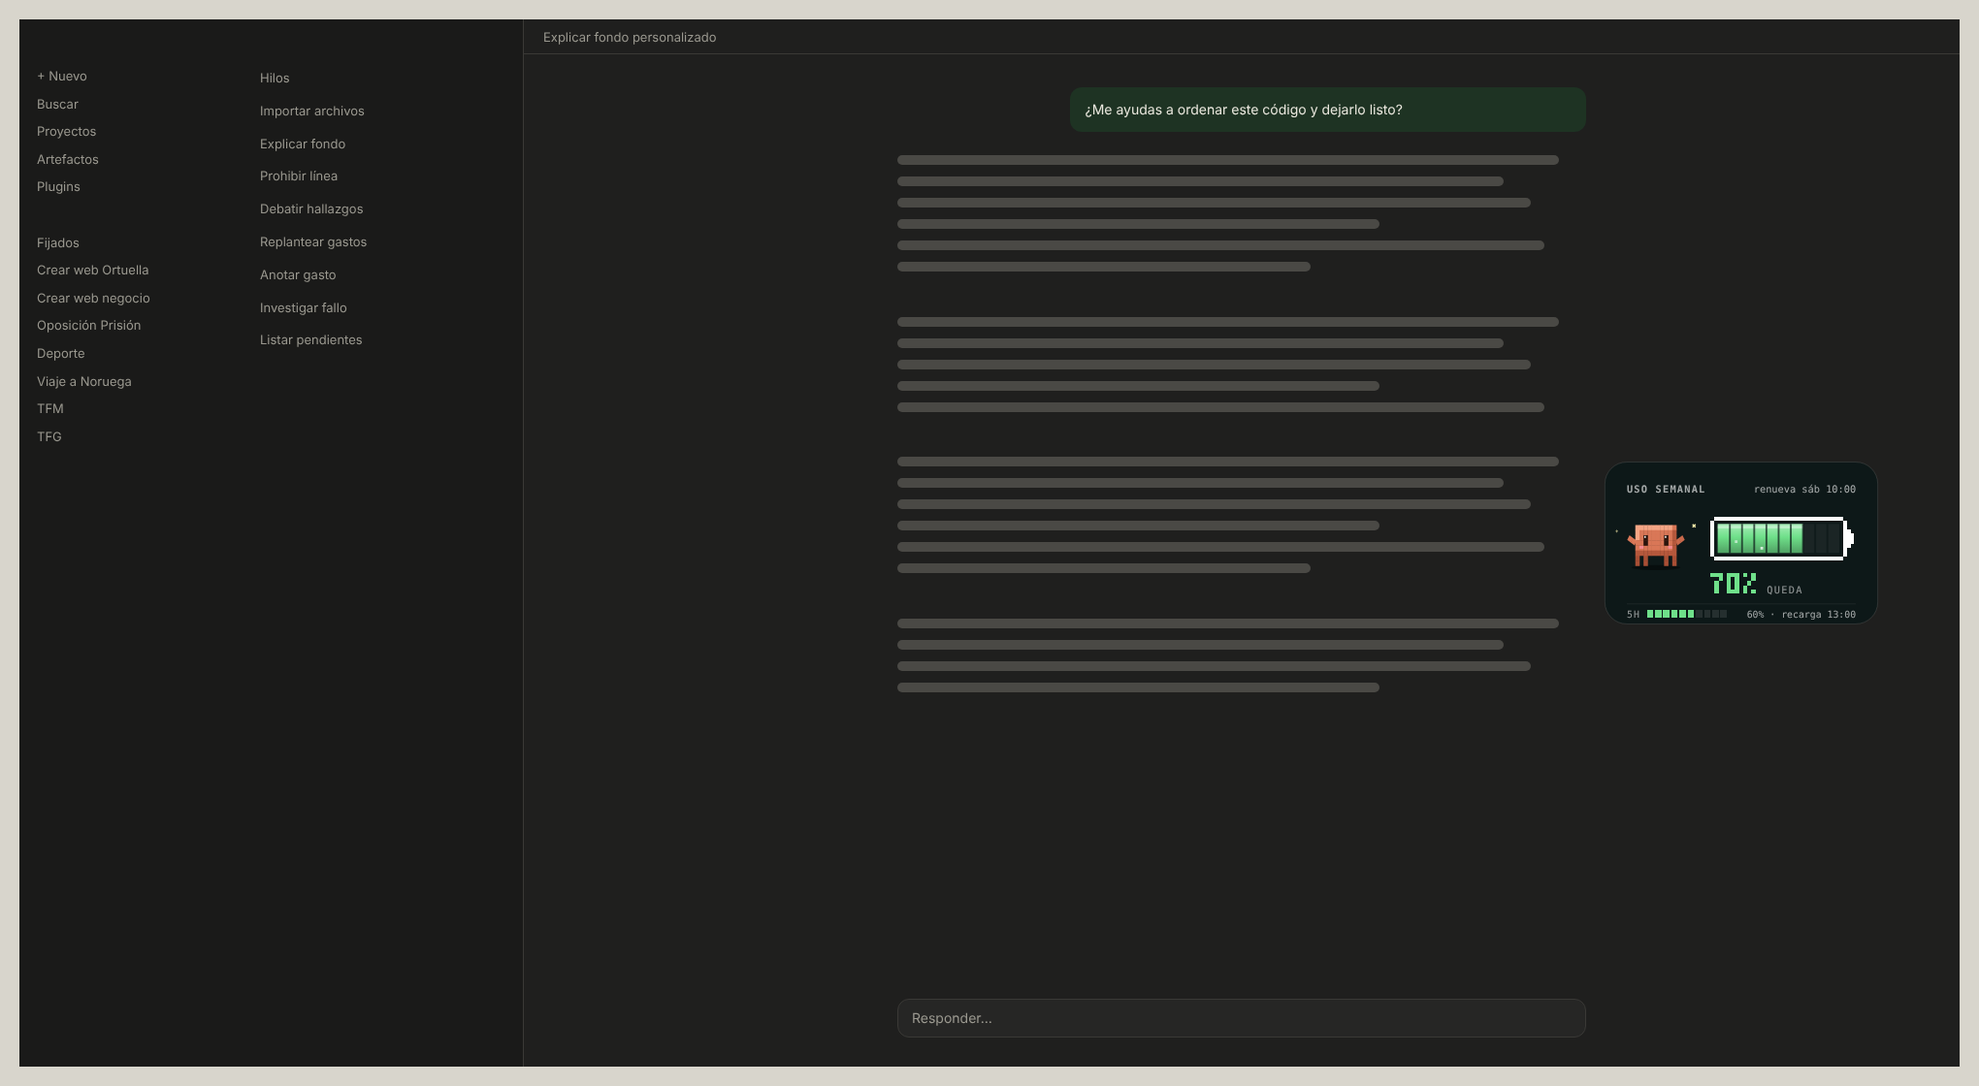
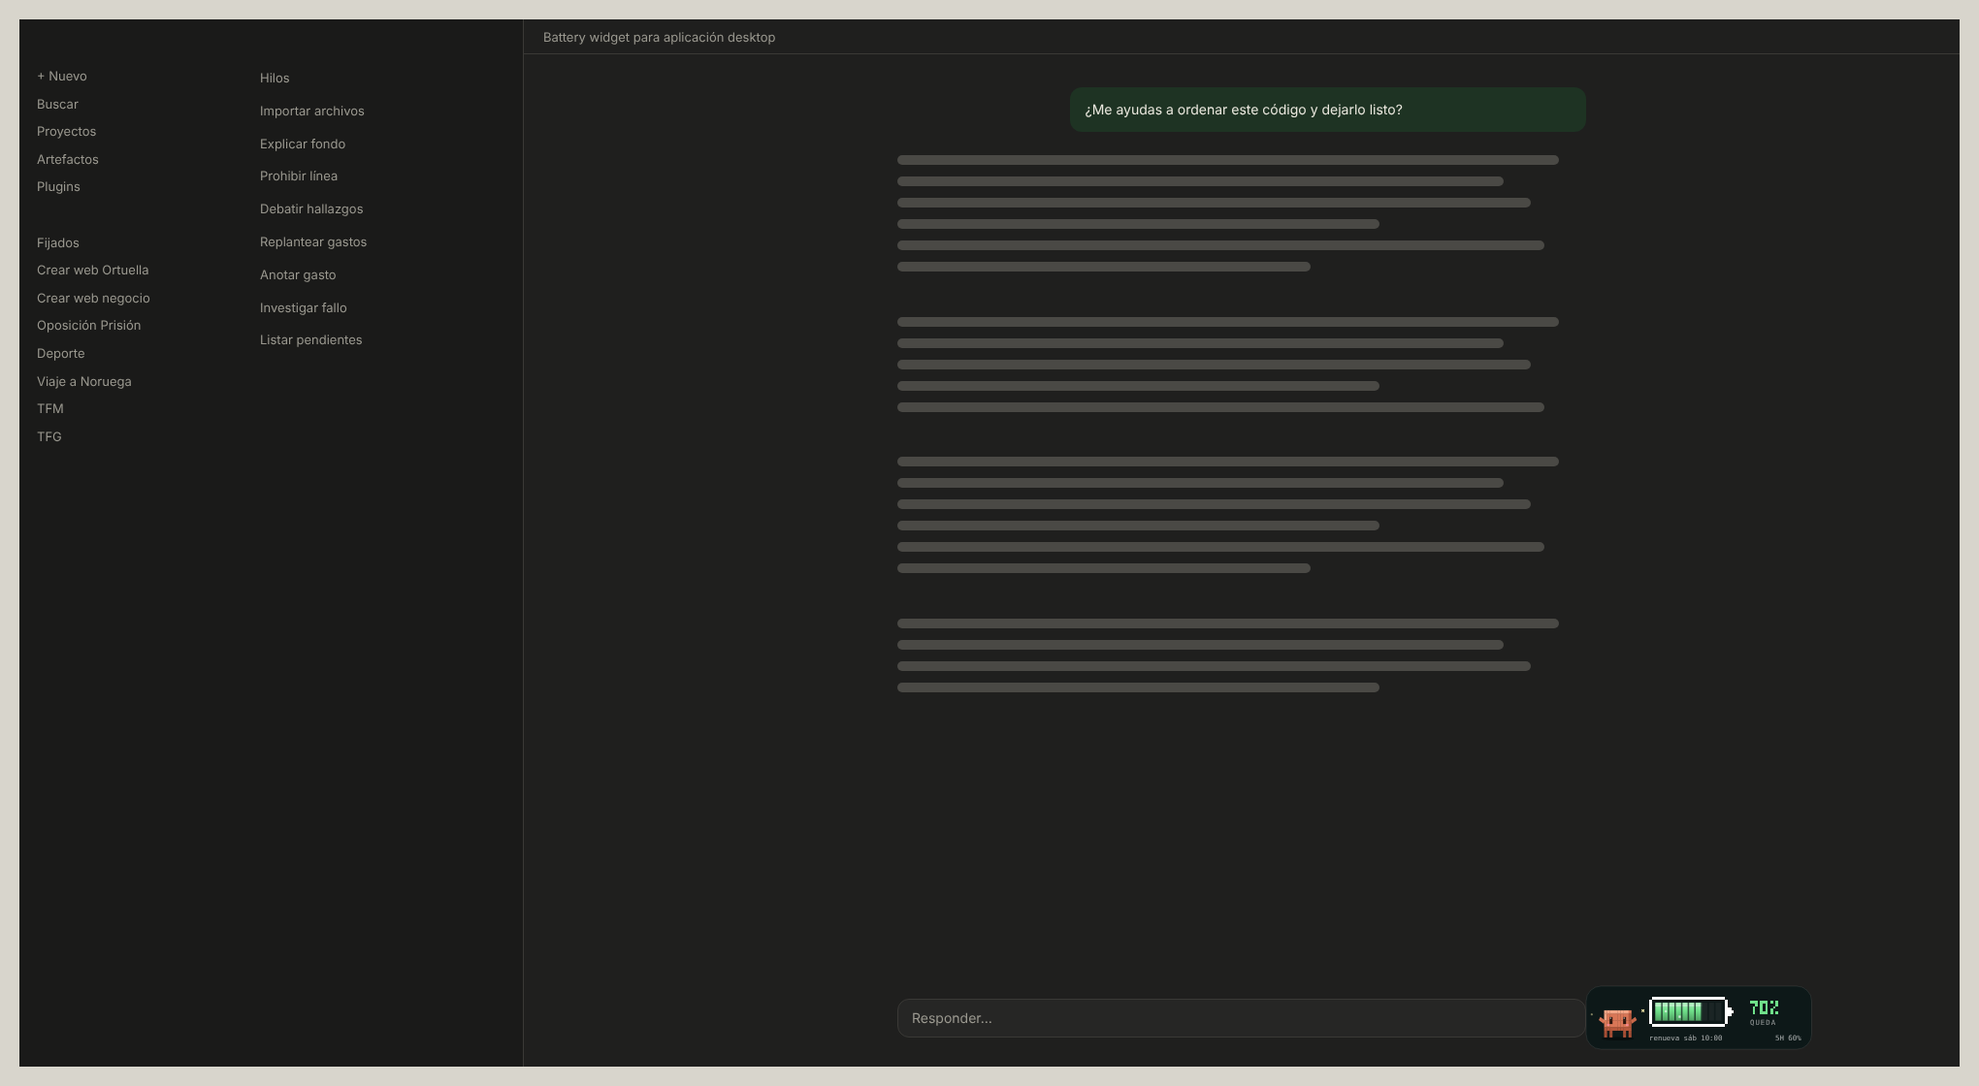
Recuadro compacto junto a la caja de escribir y doble clic para moverlo
- Nuevo estilo compact (por defecto): una tira baja con Clawd, la batería,
  el porcentaje y cuándo se renueva. El recuadro original queda como full.
- Por defecto abajo a la derecha, a la altura de la caja de escribir y
  centrado en el hueco libre; tamaño small.
- Doble clic en un hueco vacío de la ventana: el recuadro se va ahí y se
  recuerda. /bateria-reset lo devuelve a la posición de los ajustes.
- Posiciones ajustadas por franjas finas de forma de ventana.
- README y capturas actualizados.

Claude-Session: https://claude.ai/code/session_01BF3KeP9FQkdcZruovZeUb7

diff --git a/hooks/register.js b/hooks/register.js
@@ -152,28 +152,68 @@ function card(u, now) {
 
 // ---------- the scene: ONLY the card, the rest of the window stays transparent ----------
 let CARD_OPACITY = 0.9
+// ---------- the compact card: 300 x 84, one low strip that sits well beside the prompt box ----------
+function compactCard(u, now) {
+  const lim = u.rateLimits ?? [], five = lim.find(r => /five|5/.test(r.kind)), week = lim.find(r => /seven|7|week/.test(r.kind))
+  const main = week ?? five, pct = r => Math.max(0, Math.min(100, Math.round(100 - r.percentUsed)))
+  const left = main ? pct(main) : Math.max(0, Math.min(100, Math.round(100 - (u.context?.percent ?? 0))))
+  const col = left > 50 ? '#6fe08a' : left > 20 ? '#ffc94d' : '#ff5e57'
+  const mood = left === 0 ? 'sleep' : left <= 20 ? 'tired' : left > 60 ? 'happy' : 'walk'
+  const resetsIn = r => { const ms = r?.resetsAt ? Date.parse(r.resetsAt) - now : NaN; return Number.isFinite(ms) && ms > 0 ? ms : NaN }
+  const clock = ms => { const t = new Date(now + ms); return `${String(t.getHours()).padStart(2, '0')}:${String(t.getMinutes()).padStart(2, '0')}` }
+  const wIn = resetsIn(main), at = new Date(now + wIn), sameDay = at.toDateString() === new Date(now).toDateString()
+  const reset = !Number.isFinite(wIn) ? '' : L.resets(sameDay ? undefined : L.days[at.getDay()], clock(wIn))
+  const f = week && five ? pct(five) : null
+  const H = 84, M = 'font-family="ui-monospace,Menlo,monospace" fill="#ffffff"'
+  const body = `<rect width="300" height="${H}" rx="20" fill="${GROUND}" fill-opacity="${CARD_OPACITY}" stroke="#ffffff" stroke-opacity=".12"/>`
+    + `<g class="cbw">${CB_CSS}<style>.cbw *{animation-delay:calc(var(--d,0s) - ${n2((now % 60000) / 1000)}s)!important}</style>`
+    + `<g transform="translate(10 36)">${clawd(4, mood)}</g>`
+    + battery(84, 14, 104, 40, left, col)
+    + pixelText(`${left}%`, 218, 20, 3.4, col)
+    + `<text x="218" y="52" font-size="9.5" letter-spacing="1.3" opacity=".55" ${M}>${L.left}</text>`
+    + (reset ? `<text x="84" y="72" font-size="9.5" opacity=".62" ${M}>${reset}</text>` : '')
+    + (f !== null ? `<text x="286" y="72" font-size="9.5" text-anchor="end" opacity=".62" ${M}>5H ${f}%</text>` : '')
+  return { h: H, body: body + '</g>', left }
+}
+
 // where each spot sits in the 1600 x 1000 scene: cx is the card's centre, in the free strip beside the chat column
-// (right of it, or left of it between the sidebar and the chat), never in the far corner or under the header
+// (right of it, or left of it between the sidebar and the chat), never in the far corner or under the header;
+// the bottom ones sit level with the prompt box (their foot 18 above the window's foot)
 const SPOT_AT = {
-  right: { cx: 1420, y: 500, h: 'r', v: 'm' }, 'top-right': { cx: 1420, y: 120, h: 'r', v: 't' }, 'bottom-right': { cx: 1420, y: 700, h: 'r', v: 'b' },
-  left: { cx: 410, y: 500, h: 'l', v: 'm' }, 'top-left': { cx: 410, y: 120, h: 'l', v: 't' }, 'bottom-left': { cx: 410, y: 700, h: 'l', v: 'b' },
+  right: { cx: 1385, y: 500, h: 'r', v: 'm' }, 'top-right': { cx: 1385, y: 120, h: 'r', v: 't' }, 'bottom-right': { cx: 1385, y: 831, h: 'r', v: 'b' },
+  left: { cx: 410, y: 500, h: 'l', v: 'm' }, 'top-left': { cx: 410, y: 120, h: 'l', v: 't' }, 'bottom-left': { cx: 410, y: 831, h: 'l', v: 'b' },
 }
 const SIZES = { tiny: 0.5, small: 0.62, medium: 0.75, large: 0.88, xlarge: 1 }
-const RATIOS = [[0.5, 1], [1, 1.15], [1.15, 1.3], [1.3, 1.45], [1.45, 1.6], [1.6, 1.8], [1.8, 2.05], [2.05, 2.4], [2.4, 3.2], [3.2, 9]]
+// the window shapes, in narrow bands: each moves the card by the crop of a window of its middle shape
+const BANDS = Array.from({ length: 60 }, (_, i) => [0.5 + i * 0.05, i === 59 ? 9 : 0.55 + i * 0.05])
+// a spot the person chose with a double click: { fx, fy }, the card's centre as fractions of the window
 const ratio = r => `${Math.round(r * 1000)}/1000`
-function scene(u, now, spot, size, opacity, lang) {
+function scene(u, now, spot, size, opacity, lang, style, place) {
   L = TEXT[lang] ?? TEXT.es
   CARD_OPACITY = { solid: 1, normal: 0.9, glass: 0.62 }[opacity] ?? 0.9
-  const at = SPOT_AT[spot] ?? SPOT_AT.right, k = SIZES[size] ?? SIZES.medium
+  const at = SPOT_AT[spot] ?? SPOT_AT['bottom-right'], k = SIZES[size] ?? SIZES.small
   let fg = '', css = ''
   if (u) {
-    const c = card(u, now), w = 300 * k, h = c.h * k
+    const c = style === 'full' ? card(u, now) : compactCard(u, now), w = 300 * k, h = c.h * k
+    if (place) {
+      // the scene is 1600 x 1000 cut to the window: the point (fx, fy) of the window lands somewhere else
+      // in the scene for each shape of window, so each band of shapes moves the card to the right place
+      const fx = Math.max(0.05, Math.min(0.95, place.fx)), fy = Math.max(0.05, Math.min(0.95, place.fy))
+      fg = `<g class="cb-at"><g transform="translate(${n2(fx * 1600 - w / 2)} ${n2(fy * 1000 - h / 2)}) scale(${k})">${c.body}</g></g>`
+      for (const [lo, hi] of BANDS) {
+        const r = hi > 5 ? 3.6 : (lo + hi) / 2
+        const dx = r < 1.6 ? (fx - 0.5) * (1000 * r - 1600) : 0, dy = r > 1.6 ? (fy - 0.5) * (1600 / r - 1000) : 0
+        if (Math.abs(dx) + Math.abs(dy) > 0.5) css += `@media (min-aspect-ratio:${ratio(lo)}) and (max-aspect-ratio:${ratio(hi)}){.cb-at{transform:translate(${n2(dx)}px,${n2(dy)}px)}}`
+      }
+      return wrap(css, fg)
+    }
     const x = at.cx - w / 2, y = at.v === 'b' ? at.y + 160 - h : at.v === 'm' ? 500 - h / 2 : at.y
     fg = `<g class="cb-at"><g class="cb-nudge"><g transform="translate(${n2(x)} ${n2(y)}) scale(${k})">${c.body}</g></g></g>`
     // a window narrower than the scene cuts its sides; a wider one, its top and foot: keep the card in the corner
-    for (const [lo, hi] of RATIOS) {
-      const dx = hi <= 1.6 ? (at.h === 'r' ? 500 * lo - 800 : 800 - 500 * lo) : 0
-      const dy = lo >= 1.6 ? (at.v === 't' ? 500 - 800 / hi : at.v === 'b' ? 800 / hi - 500 : 0) : 0
+    for (const [lo, hi] of BANDS) {
+      const r = hi > 5 ? 3.6 : (lo + hi) / 2
+      const dx = r < 1.6 ? (at.h === 'r' ? 500 * r - 800 : 800 - 500 * r) : 0
+      const dy = r > 1.6 ? (at.v === 't' ? 500 - 800 / r : at.v === 'b' ? 800 / r - 500 : 0) : 0
       if (dx || dy) css += `@media (min-aspect-ratio:${ratio(lo)}) and (max-aspect-ratio:${ratio(hi)}){.cb-at{transform:translate(${n2(dx)}px,${n2(dy)}px)}}`
     }
     // the chat column keeps its width in pixels, so in a narrow window the strip on its right is thinner:
@@ -181,19 +221,39 @@ function scene(u, now, spot, size, opacity, lang) {
     if (at.h === 'r') css += '@media (min-aspect-ratio:1600/1000) and (max-width:1500px){.cb-nudge{transform:translateX(28px)}}'
       + '@media (min-aspect-ratio:1600/1000) and (max-width:1300px){.cb-nudge{transform:translateX(51px)}}'
   }
-  return '<svg xmlns="http://www.w3.org/2000/svg" viewBox="0 0 1600 1000" preserveAspectRatio="xMidYMid slice">'
-    + `<style>${css}</style><g font-family="-apple-system,system-ui,sans-serif">${fg}</g></svg>`
+  return wrap(css, fg)
 }
+const wrap = (css, fg) => '<svg xmlns="http://www.w3.org/2000/svg" viewBox="0 0 1600 1000" preserveAspectRatio="xMidYMid slice">'
+  + `<style>${css}</style><g font-family="-apple-system,system-ui,sans-serif">${fg}</g></svg>`
 
 // ---------- the mod ----------
 const SCENE = 'usage-battery-solo'
-let timer = null
+const PLACE = 'place' // $.store: { fx, fy, position }, where a double click put the card
+let timer = null, lastClick = null
 export const register = (on, options) => {
   on('session.start', async ($, e, next) => {
     // the theme is set once: a set replaces the whole theme, so setting it again would wipe another mod's colors
     // no green ground and no forced dark mode: the app keeps its own colors and light/dark mode
     await $.theme.set({ backdrop: { scene: SCENE, glass: false } })
+    await $.command.register({ name: 'bateria-reset', description: 'Devuelve la batería a la posición de los ajustes' })
     timer ??= $.clock.every(60000, () => $.ui.invalidate('ui.render')) // the reset clock moves each minute
+    return next(e)
+  })
+  on('command.run', { command: 'bateria-reset' }, async $ => {
+    await $.store.delete(PLACE)
+    $.ui.invalidate('ui.render')
+    return { text: 'La batería vuelve a la posición de los ajustes.' }
+  })
+  // two clicks on the bare background, close in time and place: the card moves there
+  on('ui.pointer', async ($, e, next) => {
+    if (e.scene !== SCENE || e.surface !== 'desktop') return next(e)
+    const t = await $.clock.now(), prev = lastClick
+    lastClick = { t, x: e.x, y: e.y }
+    if (prev && t - prev.t < 500 && Math.abs(prev.x - e.x) <= 2 / 64 && Math.abs(prev.y - e.y) <= 2 / 64) {
+      lastClick = null
+      await $.store.set(PLACE, { fx: e.x, fy: e.y, position: options?.position ?? null })
+      $.ui.invalidate('ui.render')
+    }
     return next(e)
   })
   // the figures moved (after each answer, or a window moved a point): draw the battery again
@@ -205,8 +265,11 @@ export const register = (on, options) => {
     if (e.surface !== 'desktop' && !(e.surface === 'mobile' && options?.mobile === 'show')) return next(e)
     let u = null
     try { u = await $.session.usage() } catch {} // no figures yet: the ground alone
+    // a spot chosen by double click holds until the person picks another Position in the settings
+    let place = null
+    try { const p = await $.store.get(PLACE); if (p && typeof p.fx === 'number' && p.position === (options?.position ?? null)) place = p } catch {}
     const { Svg } = $.ui.resolve(e)
-    return Svg({ source: scene(u, await $.clock.now(), options?.position, options?.size, options?.opacity, options?.language), alt: (TEXT[options?.language] ?? TEXT.es).alt, isInteractive: true })
+    return Svg({ source: scene(u, await $.clock.now(), options?.position, options?.size, options?.opacity, options?.language, options?.style, e.surface === 'desktop' ? place : null), alt: (TEXT[options?.language] ?? TEXT.es).alt, isInteractive: true })
   })
 }
-export { card, scene }
+export { card, compactCard, scene }

diff --git a/test/battery.test.ts b/test/battery.test.ts
@@ -1,4 +1,5 @@
 import { expect, mock, test } from 'claude-code/testing'
+import { scene } from '../hooks/register.js'
 
 const NOW = Date.UTC(2026, 10, 17, 12)
 const usage = (week: number) => ({
@@ -17,12 +18,13 @@ test('the theme is set once, and the battery redraws when usage moves', async ($
   on('theme.set', () => (sets++, { value: { isDrawn: true, requestId: 'bg' } }))
   on('session.usage', () => ({ value: usage(week) }))
   on('session.start', (_, e) => ({ cwd: e.cwd }))
+  on('command.register', () => ({ value: undefined }))
   on('session.measure', (_, e) => ({ changed: e.changed }))
 
   await $.session.start({ cwd: '/', surface: 'desktop', isInteractive: true })
   const ui = await $.ui.mount({ ...BACKDROP, surface: 'desktop' })
   const first = await source(ui)
-  expect(first).toContain('USO SEMANAL')
+  expect(first).toContain('QUEDA')
   expect(first.length).toBeLessThan(131072)
 
   week = 85 // 15% left: a different battery
@@ -50,4 +52,11 @@ test('on the phone the card stays hidden unless turned on', async ($, on) => {
   const phone = await $.ui.mount({ ...BACKDROP, surface: 'mobile' })
   expect((await phone.find({ type: 'Text' }))?.text).toBe('engine')
   await phone.unmount()
+})
+
+test('a spot chosen with a double click puts the card there, in any shape of window', async () => {
+  const svg = scene(usage(30), NOW, 'bottom-right', 'small', 'normal', 'es', 'compact', { fx: 0.75, fy: 0.9 })
+  expect(svg).toContain('translate(1107') // 0.75 x 1600, less half the small card (93)
+  expect(svg).toContain('min-aspect-ratio') // corrected for windows of other shapes
+  expect(svg.length).toBeLessThan(131072)
 })

diff --git a/README.md b/README.md
@@ -1,13 +1,17 @@
 # Uso-Bateria 🔋
 
-Clawd (la mascota de Claude) al lado de una **batería pixelada** que muestra cuánto te queda de tu uso **semanal** de Claude. Es un recuadro pequeño que se queda **al lado del chat** en **Claude Desktop** y se mueve solo.
+Clawd (la mascota de Claude) al lado de una **batería pixelada** que muestra cuánto te queda de tu uso **semanal** de Claude. Es un recuadro pequeño que se queda **abajo, al lado de la caja donde escribes**, en **Claude Desktop**, y se mueve solo. Lo puedes cambiar de sitio **con un doble clic**.
 
 Es una versión modificada de [Handsher/usage-battery](https://github.com/Handsher/usage-battery). Solo muestra el recuadro, **sin el fondo verde pixelado** en toda la ventana. La app conserva sus colores normales, y el recuadro se coloca en el hueco libre junto al chat para no taparlo.
 
 ![Cómo queda en un chat](assets/chat.png)
 
 <details>
-<summary>Ver en Claude Code, en modo claro y en un portátil</summary>
+<summary>Ver en Claude Code, en modo claro, en un portátil y en versión grande</summary>
+
+**Claude Code con el panel de la derecha abierto** (colocado con doble clic junto a la caja de escribir)
+
+![Cómo queda en Claude Code con el panel abierto](assets/panel.png)
 
 **Claude Code (con la lista de hilos abierta)**
 
@@ -20,6 +24,10 @@ Es una versión modificada de [Handsher/usage-battery](https://github.com/Handsh
 **Portátil (1440 × 900)**
 
 ![Cómo queda en un portátil](assets/laptop.png)
+
+**Estilo `full`** (el recuadro alto del original, en la posición `right`)
+
+![Estilo full](assets/full.png)
 
 </details>
 
@@ -37,8 +45,8 @@ Es una versión modificada de [Handsher/usage-battery](https://github.com/Handsh
 | **0 %** | Se queda dormido y le salen "z". |
 
 Además:
-- **Arriba a la derecha** del recuadro sale cuándo se renueva el límite semanal (por ejemplo `renueva sáb 10:00`, o `renueva hoy 10:00` si es el mismo día).
-- **En la fila de abajo** (`5H`) está el límite de 5 horas y a qué hora se recarga (`60% · recarga 13:00`).
+- **Debajo de la batería** sale cuándo se renueva el límite semanal (por ejemplo `renueva sáb 10:00`, o `renueva hoy 10:00` si es el mismo día).
+- **A la derecha** (`5H 60%`) está lo que te queda del límite de 5 horas. En el estilo `full` sale también a qué hora se recarga.
 - Los números se actualizan después de cada respuesta de Claude, y el reloj cada minuto.
 
 ## Instalación
@@ -101,31 +109,45 @@ Claude ejecutará los comandos de la opción 3 y te pedirá permiso antes.
 
 En todos los casos, **abre una sesión nueva** al terminar.
 
-## Ajustes: posición, tamaño, fondo, móvil e idioma
+## Moverlo con el ratón: doble clic
+
+Haz **doble clic en cualquier hueco vacío** de la ventana (donde no haya texto, botones ni paneles) y Clawd se va justo ahí, centrado en el punto donde has hecho clic. Se queda en ese sitio aunque cierres la app.
+
+- Para que quede bien, haz el doble clic en el **centro del hueco** donde lo quieres.
+- Para devolverlo a la posición de los ajustes, escribe `/bateria-reset` en el chat de Claude Code, o elige otra **Position** en los ajustes.
+- Arrastrarlo no se puede: la app no avisa a los mods cuando mueves el ratón, solo cuando haces clic.
+
+## Ajustes: posición, tamaño, estilo, fondo, idioma y móvil
 
 Se cambian en el **menú de configuración del plugin**: botón **+** → **Plugins** → `usage-battery-solo`, o `/plugin` en Claude Code. Después de cambiar algo, abre una sesión nueva para verlo.
 
 | Opción | Valores | Por defecto |
 | --- | --- | --- |
-| **Position** (posición) | `right`, `top-right`, `bottom-right`, `left`, `top-left`, `bottom-left` | `right` |
-| **Size** (tamaño) | `tiny`, `small`, `medium`, `large`, `xlarge` | `medium` |
+| **Position** (posición) | `bottom-right`, `right`, `top-right`, `bottom-left`, `left`, `top-left` | `bottom-right` |
+| **Size** (tamaño) | `tiny`, `small`, `medium`, `large`, `xlarge` | `small` |
+| **Style** (estilo) | `compact`, `full` | `compact` |
 | **Card background** (fondo del recuadro) | `solid`, `normal`, `glass` | `normal` |
 | **On the phone** (en el móvil) | `hide`, `show` | `hide` |
 | **Language** (idioma del recuadro) | `es`, `en` | `es` |
 
 ### Posiciones
 
-El recuadro siempre va **en el hueco libre al lado del chat**: centrado entre el chat y el borde de la ventana (`right`) o entre la barra lateral y el chat (`left`). Las variantes `top` y `bottom` lo suben o lo bajan, sin meterlo debajo de la barra de arriba.
+El recuadro siempre va **en el hueco libre al lado del chat**: centrado entre el chat y el borde de la ventana (las `right`) o entre la barra lateral y el chat (las `left`). Las `bottom` lo ponen **a la altura de la caja donde escribes**; las `top` lo suben, sin meterlo debajo de la barra de arriba. Si ninguna te encaja, usa el doble clic.
 
 ![Posiciones disponibles](assets/pos.png)
 
 ### Tamaños
 
-El recuadro crece con la ventana. Con una ventana a pantalla completa en un monitor de 1920 px, `medium` mide unos 270 px de ancho.
+El recuadro crece con la ventana. Con una ventana a pantalla completa en un monitor de 1920 px, `small` (el de por defecto) mide unos 220 px de ancho y `medium`, unos 270 px.
 
 ![Tamaños disponibles](assets/size.png)
 
 En portátiles o ventanas estrechas, quédate en `medium` o menos. `large` y `xlarge` necesitan una ventana ancha.
+
+### Estilo
+
+- `compact` (por defecto): una tira baja con Clawd, la batería, el porcentaje y cuándo se renueva. Es la que queda bien abajo, junto a la caja de escribir.
+- `full`: el recuadro alto del original, con cabecera (`USO SEMANAL`) y la fila del límite de 5 horas con su hora de recarga.
 
 ### Fondo del recuadro
 
@@ -135,7 +157,7 @@ En portátiles o ventanas estrechas, quédate en `medium` o menos. `large` y `xl
 
 ### Idioma
 
-Los textos del recuadro salen **en castellano** (`USO SEMANAL`, `QUEDA`, `renueva`, `recarga`). Si algún amigo lo prefiere en inglés, que ponga `en` en **Language**.
+Los textos del recuadro salen **en castellano** (`QUEDA`, `renueva`, y en el estilo `full` también `USO SEMANAL` y `recarga`). Si algún amigo lo prefiere en inglés, que ponga `en` en **Language**.
 
 ### En el móvil
 
@@ -150,10 +172,10 @@ No. Solo lee los números de uso que Claude ya tiene y no llama a la IA. Tampoco
 Con un plan Pro o Max, el límite semanal. Si usas Claude con una clave de API (sin límites de plan), muestra cuánto te queda de la ventana de contexto.
 
 **¿Lo puedo arrastrar con el ratón?**
-No. Se coloca en una de las seis posiciones de los ajustes.
+Arrastrar no, pero sí moverlo con un **doble clic** en el hueco donde lo quieras (ver arriba).
 
 **En Claude Code, cuando abro el panel de la derecha (Hilos, Contexto...), no se ve.**
-Es normal: el recuadro está en el fondo de la ventana, y ese panel lo tapa. Al cerrar el panel vuelve a verse. Si usas mucho ese panel, prueba la posición `left`.
+Es normal: el recuadro está en el fondo de la ventana, y ese panel lo tapa. Haz **doble clic en el hueco libre entre la caja de escribir y el panel** y se queda ahí (como en la captura de arriba).
 
 **¿Funciona junto con otros temas?**
 Funciona perfectamente con los colores normales de la app, en modo claro y oscuro. Pero el recuadro se dibuja en el "fondo" de la ventana, y en ese hueco solo puede haber una cosa a la vez: si instalas otro mod que pone un fondo o una foto, se pisarán y solo se verá uno de los dos.
@@ -168,8 +190,10 @@ En **+** → **Plugins**, desactiva o elimina `usage-battery-solo`, o con `claud
 
 - Se quitó el suelo verde pixelado y la viñeta oscura: fuera del recuadro, la ventana se ve como siempre.
 - Ya no obliga a usar el modo oscuro: la app mantiene tu modo claro u oscuro.
-- El recuadro va en el hueco libre junto al chat, no pegado a las esquinas de la ventana, y se aparta un poco más en ventanas estrechas.
+- El recuadro va en el hueco libre junto al chat, no pegado a las esquinas de la ventana; por defecto, abajo, a la altura de la caja de escribir. En ventanas estrechas se aparta un poco más.
 - Tamaños más pequeños (el `xlarge` de aquí es el `medium` del original) y uno nuevo, `tiny`.
+- Estilo nuevo `compact` (por defecto), una tira baja para ir junto a la caja de escribir; el recuadro original sigue como `full`.
+- Se puede mover con un doble clic en un hueco vacío, y volver con `/bateria-reset`.
 - Opción nueva **Card background** (`solid`, `normal`, `glass`).
 - Opción nueva **On the phone**: oculto en el móvil por defecto.
 - Textos del recuadro traducidos al castellano, con opción **Language** para volver al inglés.
